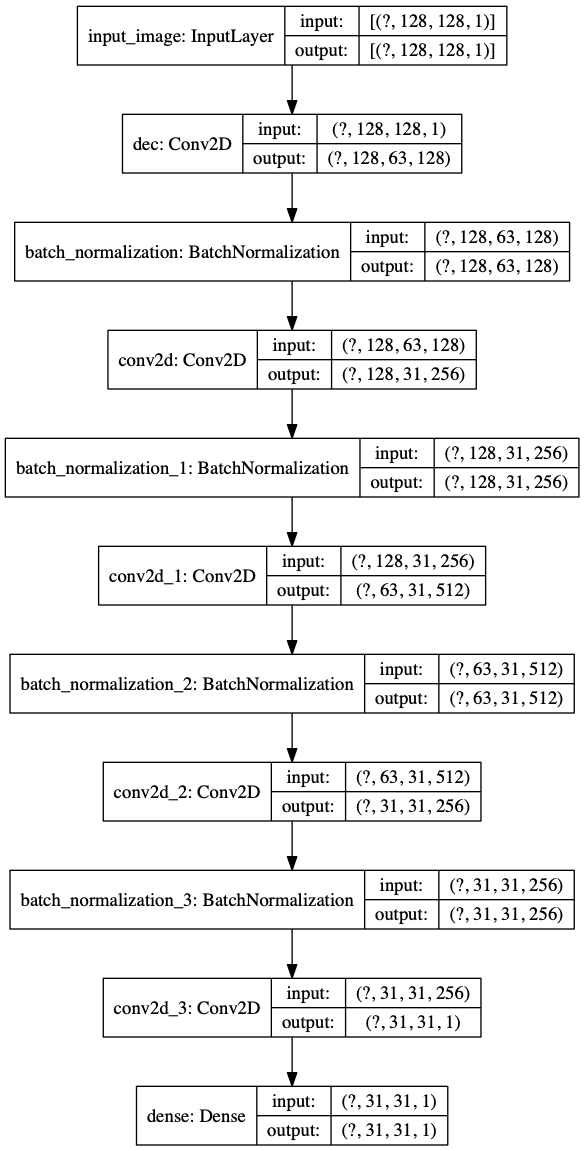
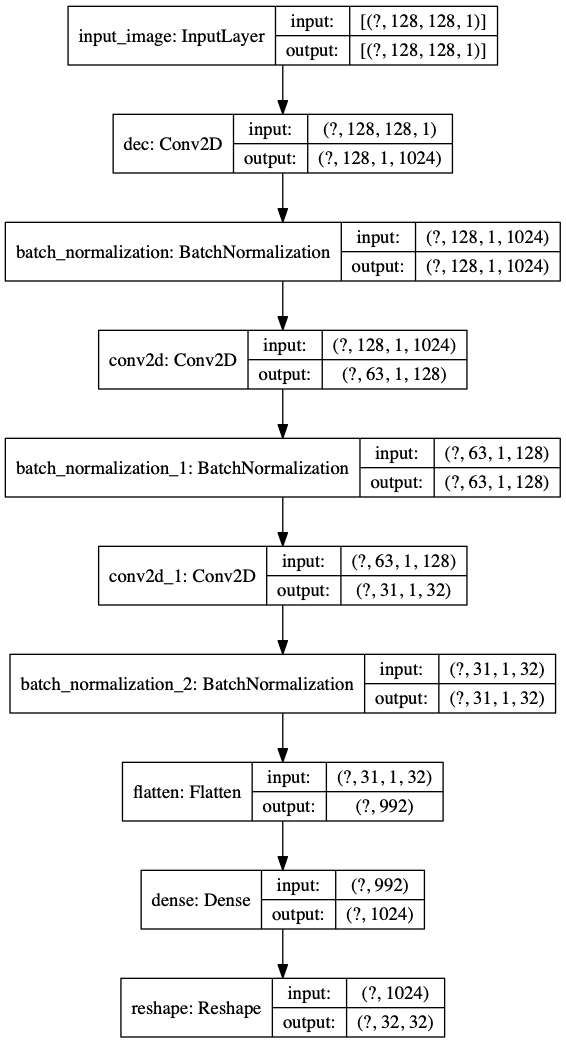
update

Changed region(s): [[0.0, 0.0, 1.0, 1.0], [0.1502, 0.8591, 0.1802, 0.8897]]

diff --git a/model.py b/model.py
@@ -238,33 +238,28 @@ def make_discriminator_model(len_low_size=16, scale=4):
     len_high_size = int(len_low_size*scale)
     initializer = tf.random_normal_initializer(0., 0.2)
     inp = tf.keras.layers.Input(shape=[len_high_size, len_high_size, 1], name='input_image')
-    dec = tf.keras.layers.Conv2D(128, [1, 3], strides=[1,2], padding='valid', data_format="channels_last", 
+    dec = tf.keras.layers.Conv2D(1024, [1, len_high_size], strides=1, padding='valid', data_format="channels_last", 
                                     use_bias=True,
                                     kernel_initializer=tf.random_normal_initializer(0., 1.0), 
                                     name='dec')(inp)
     batchnorm = tf.keras.layers.BatchNormalization()(dec)
 
-    conv = tf.keras.layers.Conv2D(256, [1, 3], strides=[1,2], padding='valid', data_format="channels_last", 
-                                    activation=None, use_bias=True,
-                                    kernel_initializer=initializer, 
-                                    )(batchnorm)
-    batchnorm = tf.keras.layers.BatchNormalization()(conv)
-
-    conv = tf.keras.layers.Conv2D(512, [3, 1], strides=[2,1], padding='valid', data_format="channels_last", 
-                                    activation=None, use_bias=True,
+    conv = tf.keras.layers.Conv2D(128, [3, 1], strides=[2,1], padding='valid', data_format="channels_last", 
+                                    activation='relu', use_bias=True,
                                     kernel_initializer=initializer, 
                                     )(batchnorm)
     batchnorm = tf.keras.layers.BatchNormalization()(conv)
     #leaky_relu = tf.keras.layers.LeakyReLU()(batchnorm)
 
-    conv = tf.keras.layers.Conv2D(256, [3, 1], strides=[2,1], padding='valid', data_format="channels_last", 
-                                    activation=None, use_bias=True,
+    conv = tf.keras.layers.Conv2D(32, [3, 1], strides=[2,1], padding='valid', data_format="channels_last", 
+                                    activation='relu', use_bias=True,
                                     kernel_initializer=initializer, 
                                     )(batchnorm)
     batchnorm = tf.keras.layers.BatchNormalization()(conv)
 
-    last = tf.keras.layers.Conv2D(1, 1, strides=1, padding='valid', kernel_initializer=initializer)(batchnorm)
-    last = tf.keras.layers.Dense(1)(last)
+    last = tf.keras.layers.Flatten()(batchnorm)
+    last = tf.keras.layers.Dense(1024)(last)
+    last = tf.keras.layers.Reshape((32, 32))(last)
     return tf.keras.Model(inputs=inp, outputs=last)
 
 def discriminator_KL_loss(real_output, fake_output):
